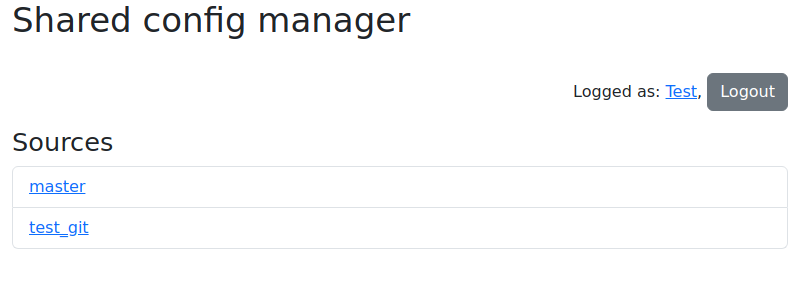
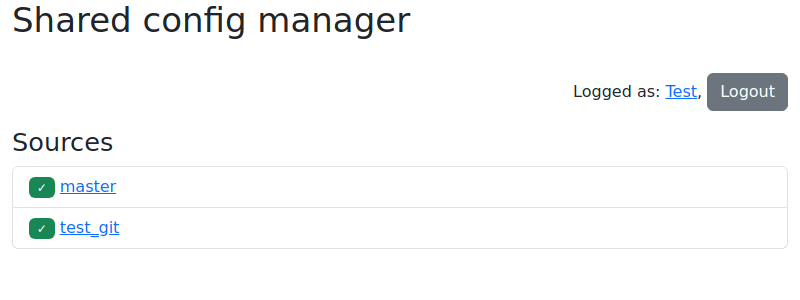
Add badge on main page to know if the source is correctly working or not

Changed region(s): [[0.0312, 0.72, 0.1562, 0.81], [0.0312, 0.57, 0.1562, 0.66]]

diff --git a/app/shared_config_manager/app.py b/app/shared_config_manager/app.py
@@ -40,7 +40,7 @@ def _watch_source():
                 try:
                     slaves = slave_status.get_source_status(id_=key)
                     need_refresh = False
-                    hash_ = source.get_hash()
+                    hash_ = ""
                     for slave in slaves:
                         if slave is None or slave.get("filtered", False):
                             continue
@@ -53,13 +53,16 @@ def _watch_source():
                                 key,
                             )
 
-                        if slave.get("hash") != hash_:
-                            need_refresh = True
-                            _LOG.warning(
-                                "The hash in the slave '%s' status for source '%s' is different -> refresh.",
-                                slave.get("hostname"),
-                                key,
-                            )
+                        if hash_:
+                            if slave.get("hash") != hash_:
+                                need_refresh = True
+                                _LOG.warning(
+                                    "The hash in the slave '%s' status for source '%s' is different -> refresh.",
+                                    slave.get("hostname"),
+                                    key,
+                                )
+                        else:
+                            hash_ = slave.get("hash")
 
                     if need_refresh:
                         source.refresh()

diff --git a/app/shared_config_manager/views.py b/app/shared_config_manager/views.py
@@ -15,8 +15,30 @@ from pyramid.view import view_config
 from shared_config_manager import slave_status
 from shared_config_manager.configuration import SourceStatus
 from shared_config_manager.sources import registry
+from shared_config_manager.sources.base import BaseSource
 
 _LOG = logging.getLogger(__name__)
+
+
+def _is_valid(source: BaseSource) -> bool:
+    if source is None:
+        return False
+
+    slaves = slave_status.get_source_status(id_=source.get_id())
+    if slaves is None:
+        return True
+    hash_ = ""
+    for slave in slaves:
+        if slave is None or slave.get("filtered", False):
+            continue
+        if "hash" not in slave:
+            return False
+        if hash_:
+            if slave.get("hash") != hash_:
+                return False
+        else:
+            hash_ = slave.get("hash")
+    return True
 
 
 @view_config(route_name="ui_index", renderer="./templates/index.html.mako")  # type: ignore
@@ -35,7 +57,7 @@ def _ui_index(request: pyramid.request.Request) -> dict[str, Any]:
             if isinstance(permission, Allowed):
                 sources_list.append(source)
 
-    return {"sources": sources_list}
+    return {"sources": sources_list, "is_valid": _is_valid}
 
 
 @view_config(route_name="ui_source", renderer="./templates/source.html.mako")  # type: ignore
